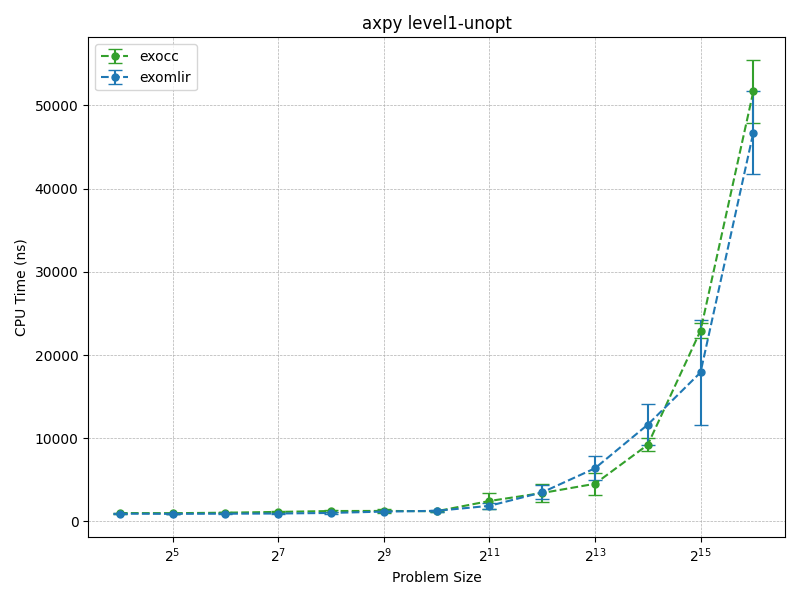
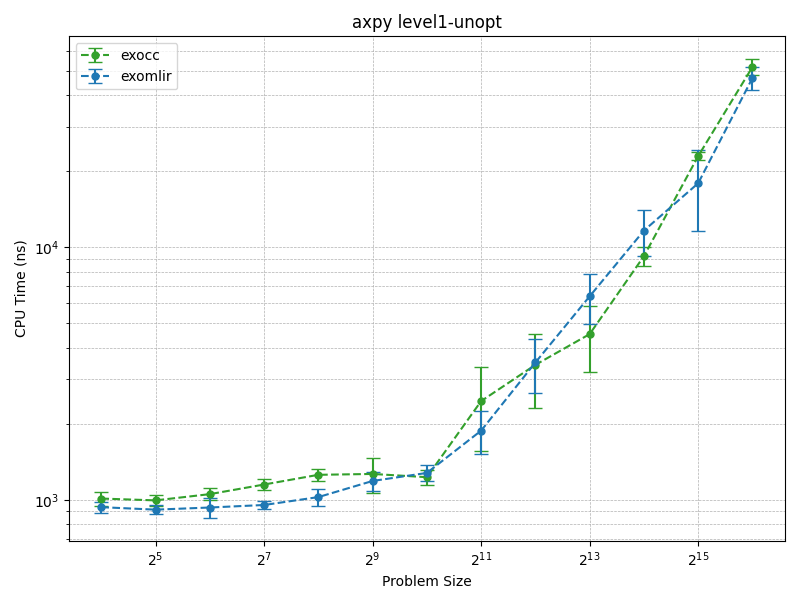
changes

diff --git a/tools/plot-heatmaps.py b/tools/plot-heatmaps.py
@@ -2,7 +2,7 @@ import os
 import sys
 from glob import glob
 from pathlib import Path
-
+from math import log2
 import matplotlib.pyplot as plt
 import pandas as pd
 import seaborn as sns
@@ -29,24 +29,23 @@ for proc in procedures:
 
     df = pd.read_csv(filepath)
 
-    # speen
-    pivoted = df.pivot(
-        index="size",
-        columns="compiler",
-        values=[f"cputime_{i}" for i in range(BENCHMARK_REPEATS)],
-    )
+    del df["mean"]
+    del df["stddev"]
 
-    ratio = pd.DataFrame(index=pivoted.index)
+    # df["geomean"] = df[(f"cputime_{i}" for i in range(BENCHMARK_REPEATS))].apply(gmean)
 
-    # compute cputime ratios
-    for i in range(BENCHMARK_REPEATS):
-        ratio[f"cputime_{i}"] = (
-            pivoted[f"cputime_{i}"].iloc[:, 0] / pivoted[f"cputime_{i}"].iloc[:, 1]
-        )
+    exomlir = df[df["compiler"] == "exomlir"]
+    del exomlir["compiler"]
+    exomlir.set_index("size", inplace=True)
+    exomlir["geomean"] = exomlir.apply(gmean, axis=1)
 
-    # reduce to geometric mean
-    ratio = ratio.apply(gmean, axis=1)
-    heatmap_df[procedure] = ratio
+    exocc = df[df["compiler"] == "exocc"]
+    del exocc["compiler"]
+    exocc.set_index("size", inplace=True)
+    exocc["geomean"] = exocc.apply(gmean, axis=1)
+
+    heatmap_df[procedure] = exocc["geomean"] / exomlir["geomean"]
+
 
 # sort columns by procedure
 heatmap_df = heatmap_df.reindex(
@@ -55,21 +54,22 @@ heatmap_df = heatmap_df.reindex(
 )
 
 # create heatmap
-plt.figure(figsize=(10, 8))
+plt.figure(figsize=(10, 6))
 
 cmap = sns.diverging_palette(10, 133, as_cmap=True)
 
 sns.heatmap(
-    heatmap_df.T,
+    heatmap_df,
     annot=True,
     fmt=".2f",
     cmap=cmap,
     cbar_kws={"label": "Speedup"},
-    linewidths=0.5,
-    linecolor="black",
+    linewidths=0,
     center=1.0,
+    yticklabels=tuple(f"$2^{{{int(log2(n))}}}$" for n in heatmap_df.index),
 )
-plt.title(f"{directory.name} Geomean of runtime of exomlir / exocc")
+
+plt.title(f"{directory.name} Geomean of runtime of exocc / exomlir")
 plt.xlabel("Size")
 plt.ylabel("Procedure")
 plt.yticks(rotation=0)

diff --git a/tools/plot-benchmark-results.py b/tools/plot-benchmark-results.py
@@ -37,9 +37,9 @@ ax.set_xlabel("Problem Size")
 ax.set_ylabel("CPU Time (ns)")
 ax.set_title(f"{proc} {level}")
 ax.set_xscale("log", base=2)
+ax.set_yscale("log", base=10)
 ax.legend()
 ax.grid(True, which="both", linestyle="--", linewidth=0.5)
-
 
 os.makedirs(os.path.dirname(output), exist_ok=True)
 
